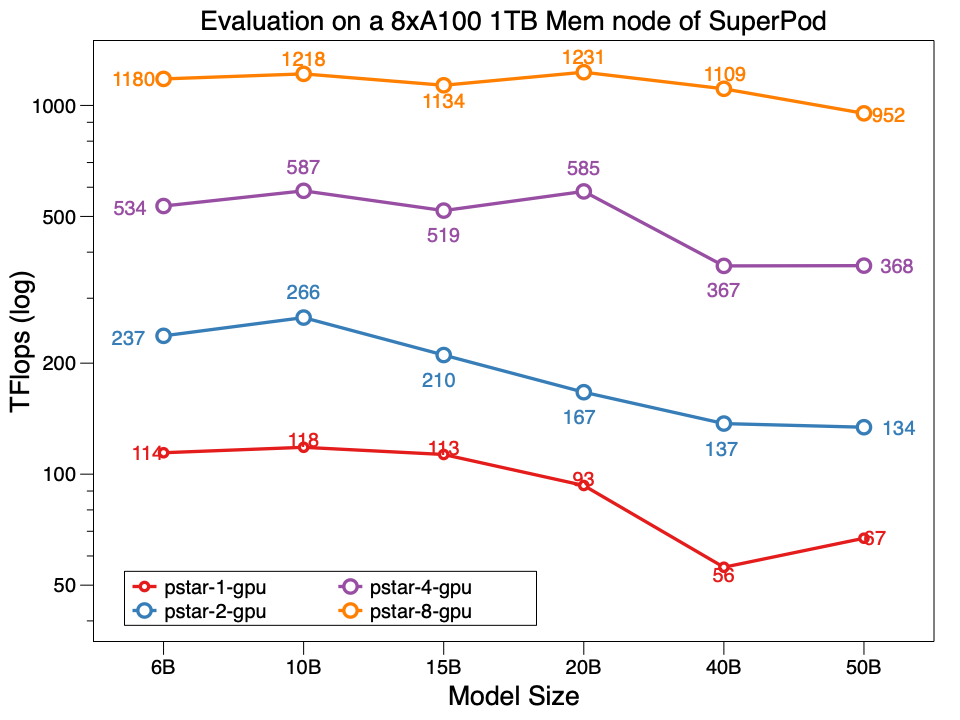
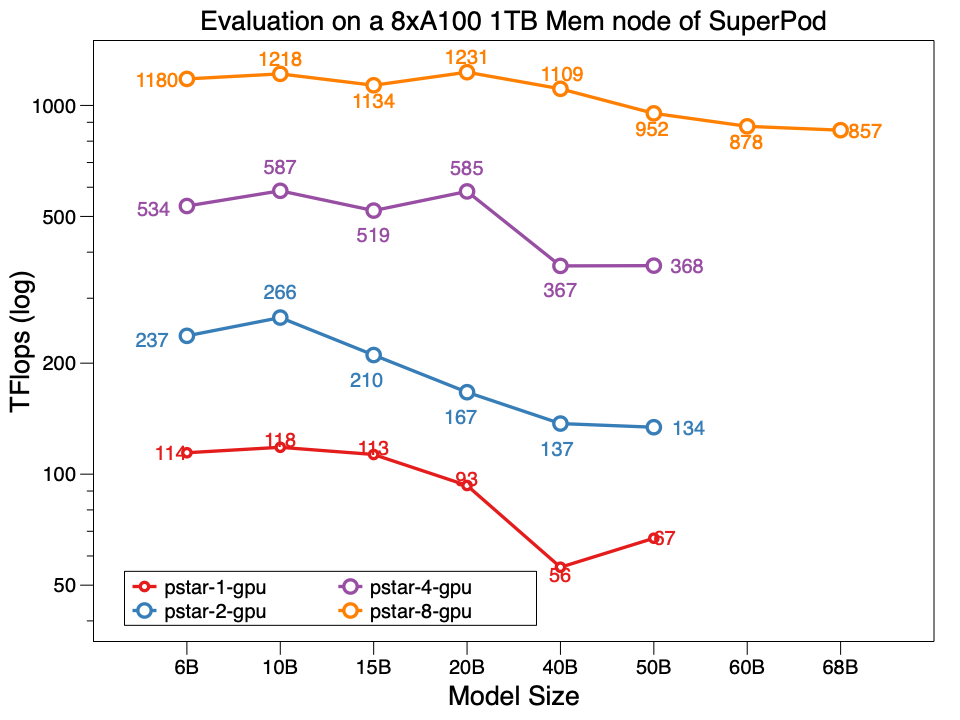
polish readme

diff --git a/examples/model_builder.py b/examples/model_builder.py
@@ -165,11 +165,17 @@ def model_config(model_name):
         SEQ_LEN = 1024
         NUM_LAYER = 75
         NUM_HEAD = 16
-    elif model_name == "GPT_DS_70B":
+    elif model_name == "GPT_DS_68B":
         HIDDEN_DIM = 9216
         SEQ_LEN = 1024
-        NUM_LAYER = 69
+        NUM_LAYER = 66
         NUM_HEAD = 16
+    # OpenAI GPT3
+    elif model_name == "GPT_DS_175B":
+        HIDDEN_DIM = 12288
+        SEQ_LEN = 1024
+        NUM_LAYER = 96
+        NUM_HEAD = 96
     else:
         raise RuntimeError(f"The model name {model_name} is not valid!")
     assert HIDDEN_DIM % NUM_HEAD == 0

diff --git a/README.md b/README.md
@@ -15,7 +15,7 @@ The idea of Patrick is like this. The non-model data (mainly activations) varies
 See the paper and [this doc](./INSIDE.md) for the idea behind PatrickStar.
 
 ### Results
-In experiment, Patrickstar v0.4.3 is able to train a **18 Billion**(18B) param model with 8xTesla V100 GPU and 240GB GPU memory, which is over twice as large as the state of art. And the performance of PatrickStar is better for models of the same size as well. The pstar is PatrickStar v0.4.3. The deeps indicates performance of DeepSpeed v0.4.3 using the official example [DeepSpeed example](https://github.com/microsoft/DeepSpeedExamples/blob/master/Megatron-LM-v1.1.5-ZeRO3/examples/ds_pretrain_gpt2-zero3.sh) zero3 stage with activation optimzations openning by default.
+In experiment, Patrickstar v0.4.3 is able to train a **18 Billion**(18B) param model with 8xTesla V100 GPU and 240GB GPU memory in WeChat datacenter node, whose network topology is like [this](./doc/yard_network_fabric.md). PatrickStar is over twice as large as the DeepSpeed. And the performance of PatrickStar is better for models of the same size as well. The pstar is PatrickStar v0.4.3. The deeps indicates performance of DeepSpeed v0.4.3 using the official example [DeepSpeed example](https://github.com/microsoft/DeepSpeedExamples/blob/master/Megatron-LM-v1.1.5-ZeRO3/examples/ds_pretrain_gpt2-zero3.sh) zero3 stage with activation optimzations openning by default.
 
 ![alt perf](./doc/mgpu_scalability.png "performance testing result")
 
@@ -103,6 +103,10 @@ A quick-start benchmark script is [here](./examples/run_transformers.sh). It is 
 ### Limitations
 
 1. PatrickStar currently is not evaluated on DNN with parameters shared in different layers. For example, be careful to use it with tie-weight. But you can still label the tied weight to be managed by PyTorch, and make the remaining layers managed by PatrickStar chunk-based memory management.
+
+2. PatrickStar currently does not support gradient accumulation since it reuses grad and param chunks by default, although it could be implemented as a no chunk reuse version.
+In our opinion, GA is a patch for CUDA OOM, and lower the computing efficiency is extremely low with batch size as 1,2.
+PatrickStar has solved it very well; it surpasses DeepSpeed with GA significantly.
 
 ### License
 BSD 3-Clause License
